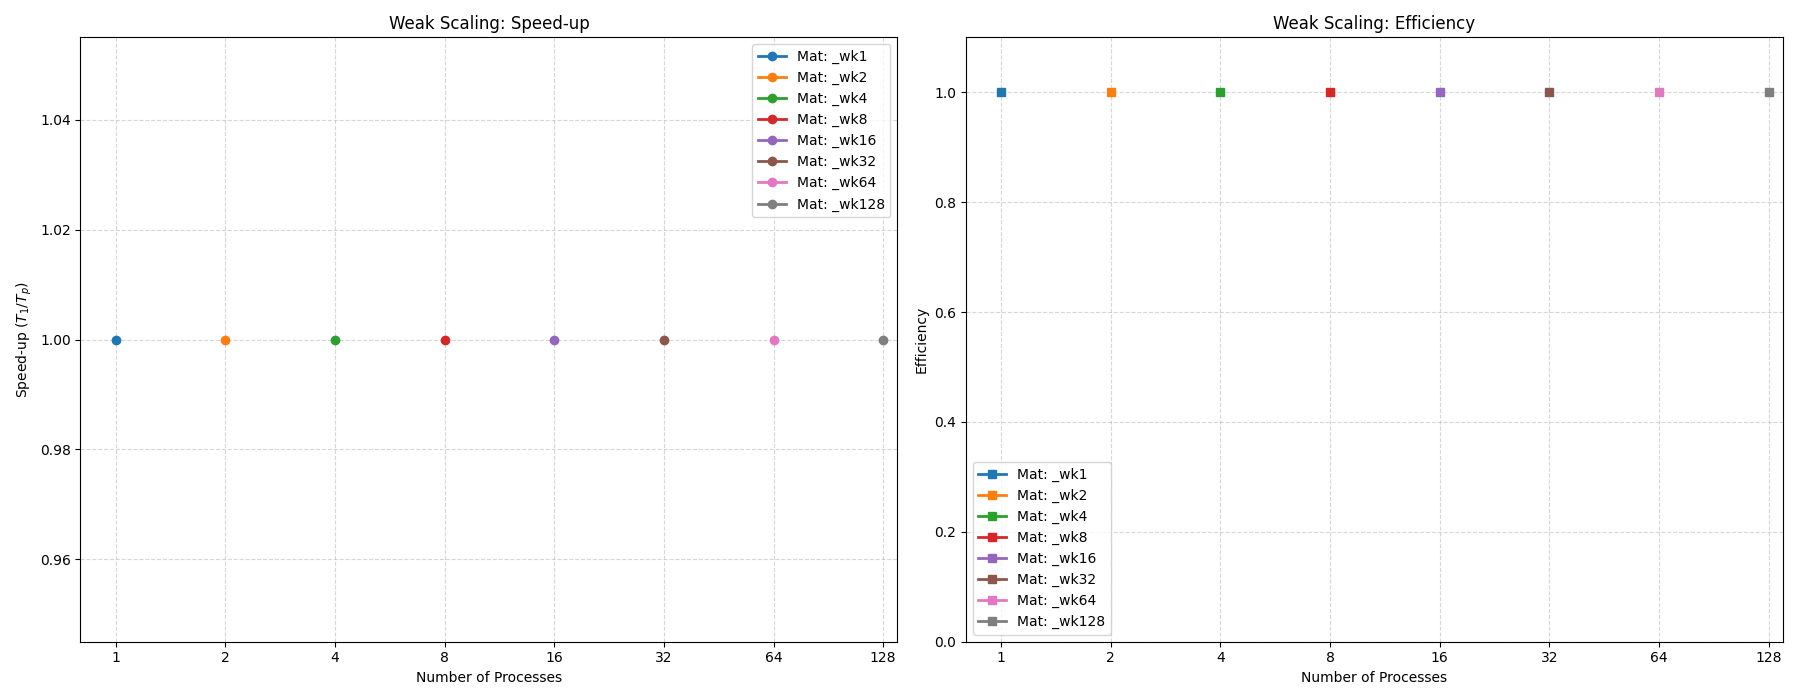
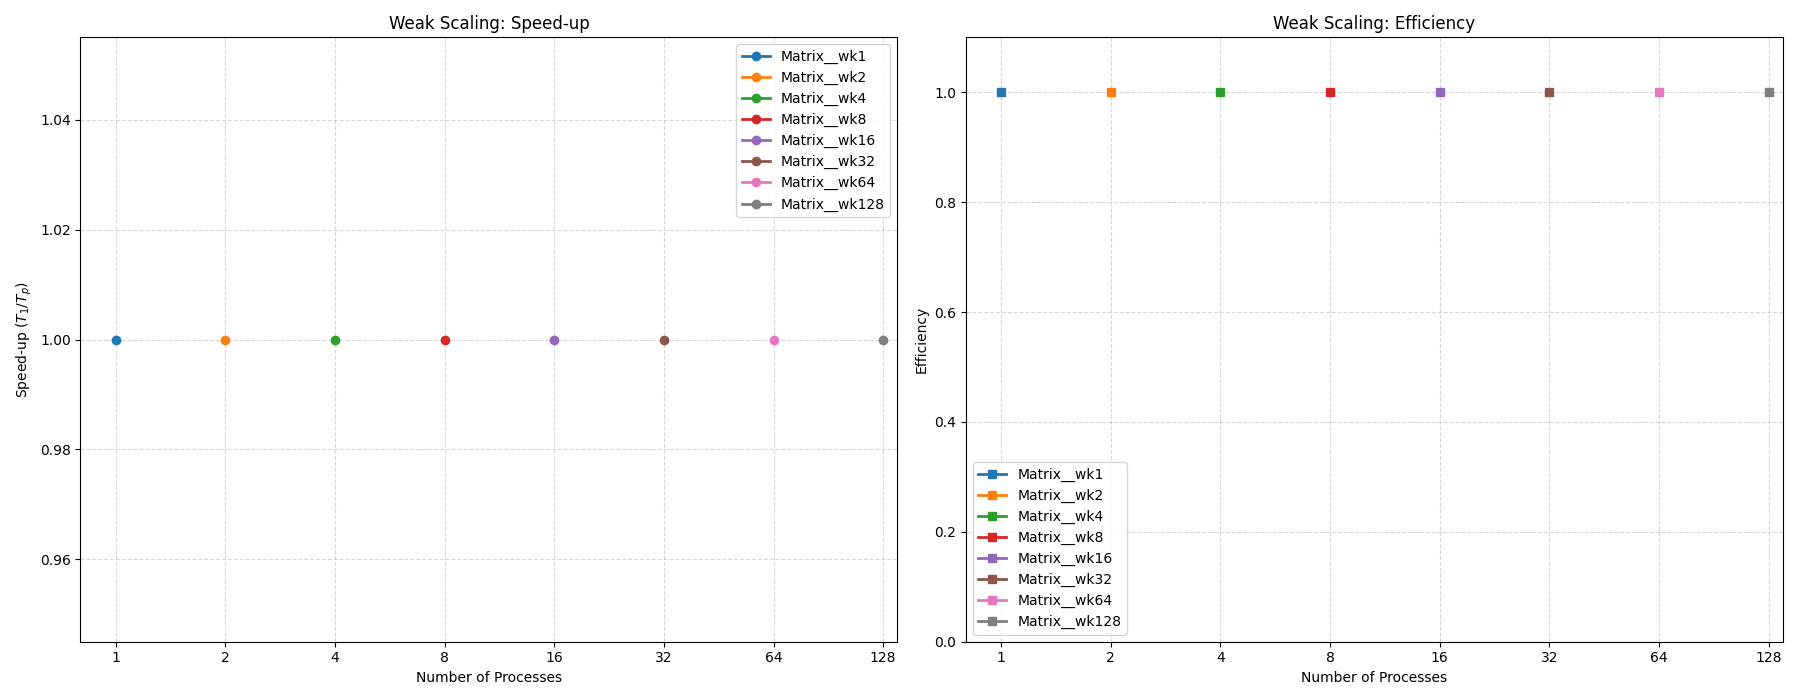
project finished, all fixes done

Changed region(s): [[0.4044, 0.06, 0.4978, 0.3], [0.56, 0.66, 0.6222, 0.9]]

diff --git a/Deliverable2/plots/speedup_efficiency.py b/Deliverable2/plots/speedup_efficiency.py
@@ -30,6 +30,11 @@ def create_scaling_plot(df, filename, title, is_strong=True):
         speedup = t1 / m_data['total_time(ms)']
         efficiency = speedup / procs if is_strong else (t1 / m_data['total_time(ms)'])
 
+        # Print the best speedup for this matrix
+        max_speedup = speedup.max()
+        best_proc = procs[speedup.idxmax()]
+        print(f'Matrix {mat}: Best speedup = {max_speedup:.2f} at {best_proc} processes')
+
         # Plot Speedup
         ax1.plot(procs, speedup, marker='o', linewidth=2, label=f'Matrix_{mat}')
         # Plot Efficiency

diff --git a/Deliverable2/src/matrix.cpp b/Deliverable2/src/matrix.cpp
@@ -45,7 +45,7 @@ void matrix::spmv(const double* localProductArray, int numGhostEntries, const in
         		resultArray[i] += vals[j] * localProductArray[col / size];
 			} else {
 				if(columnToGhostIndex[col] == -1) {
-					std::cerr << "error 1" << std::endl;
+					std::cerr << "error: trying to acess ghost entry that was not saved" << std::endl;
 					continue;
 				}
 				
